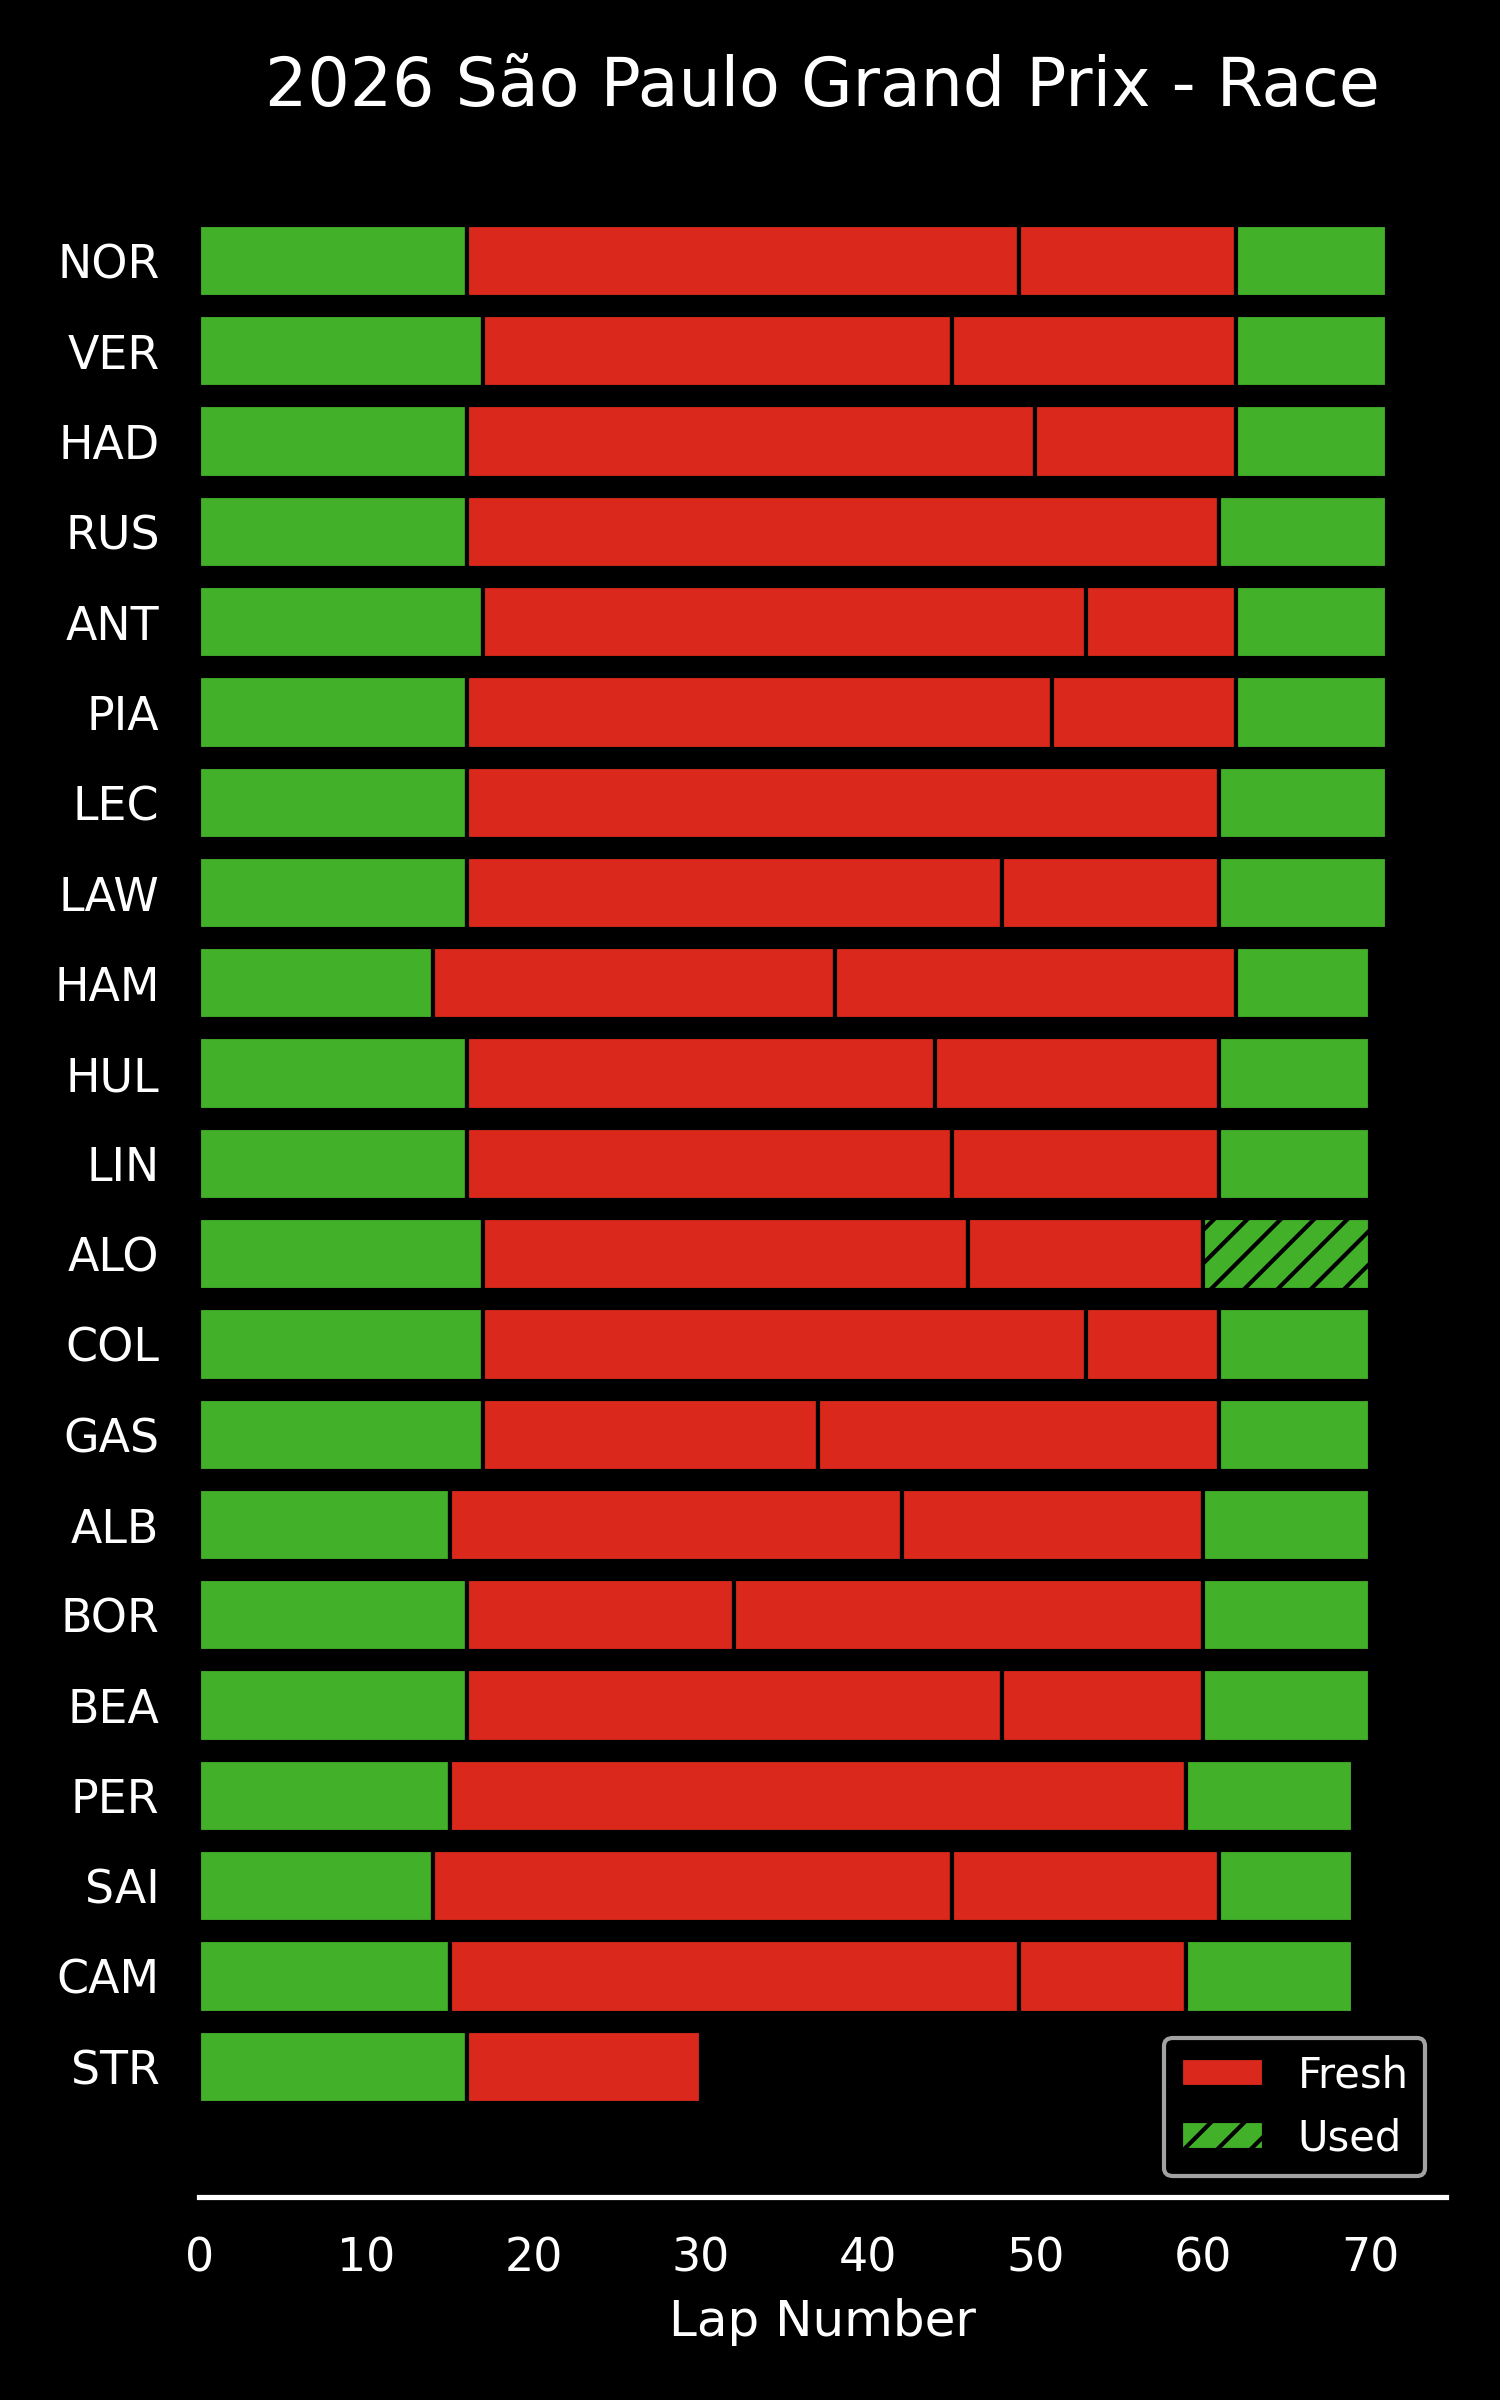
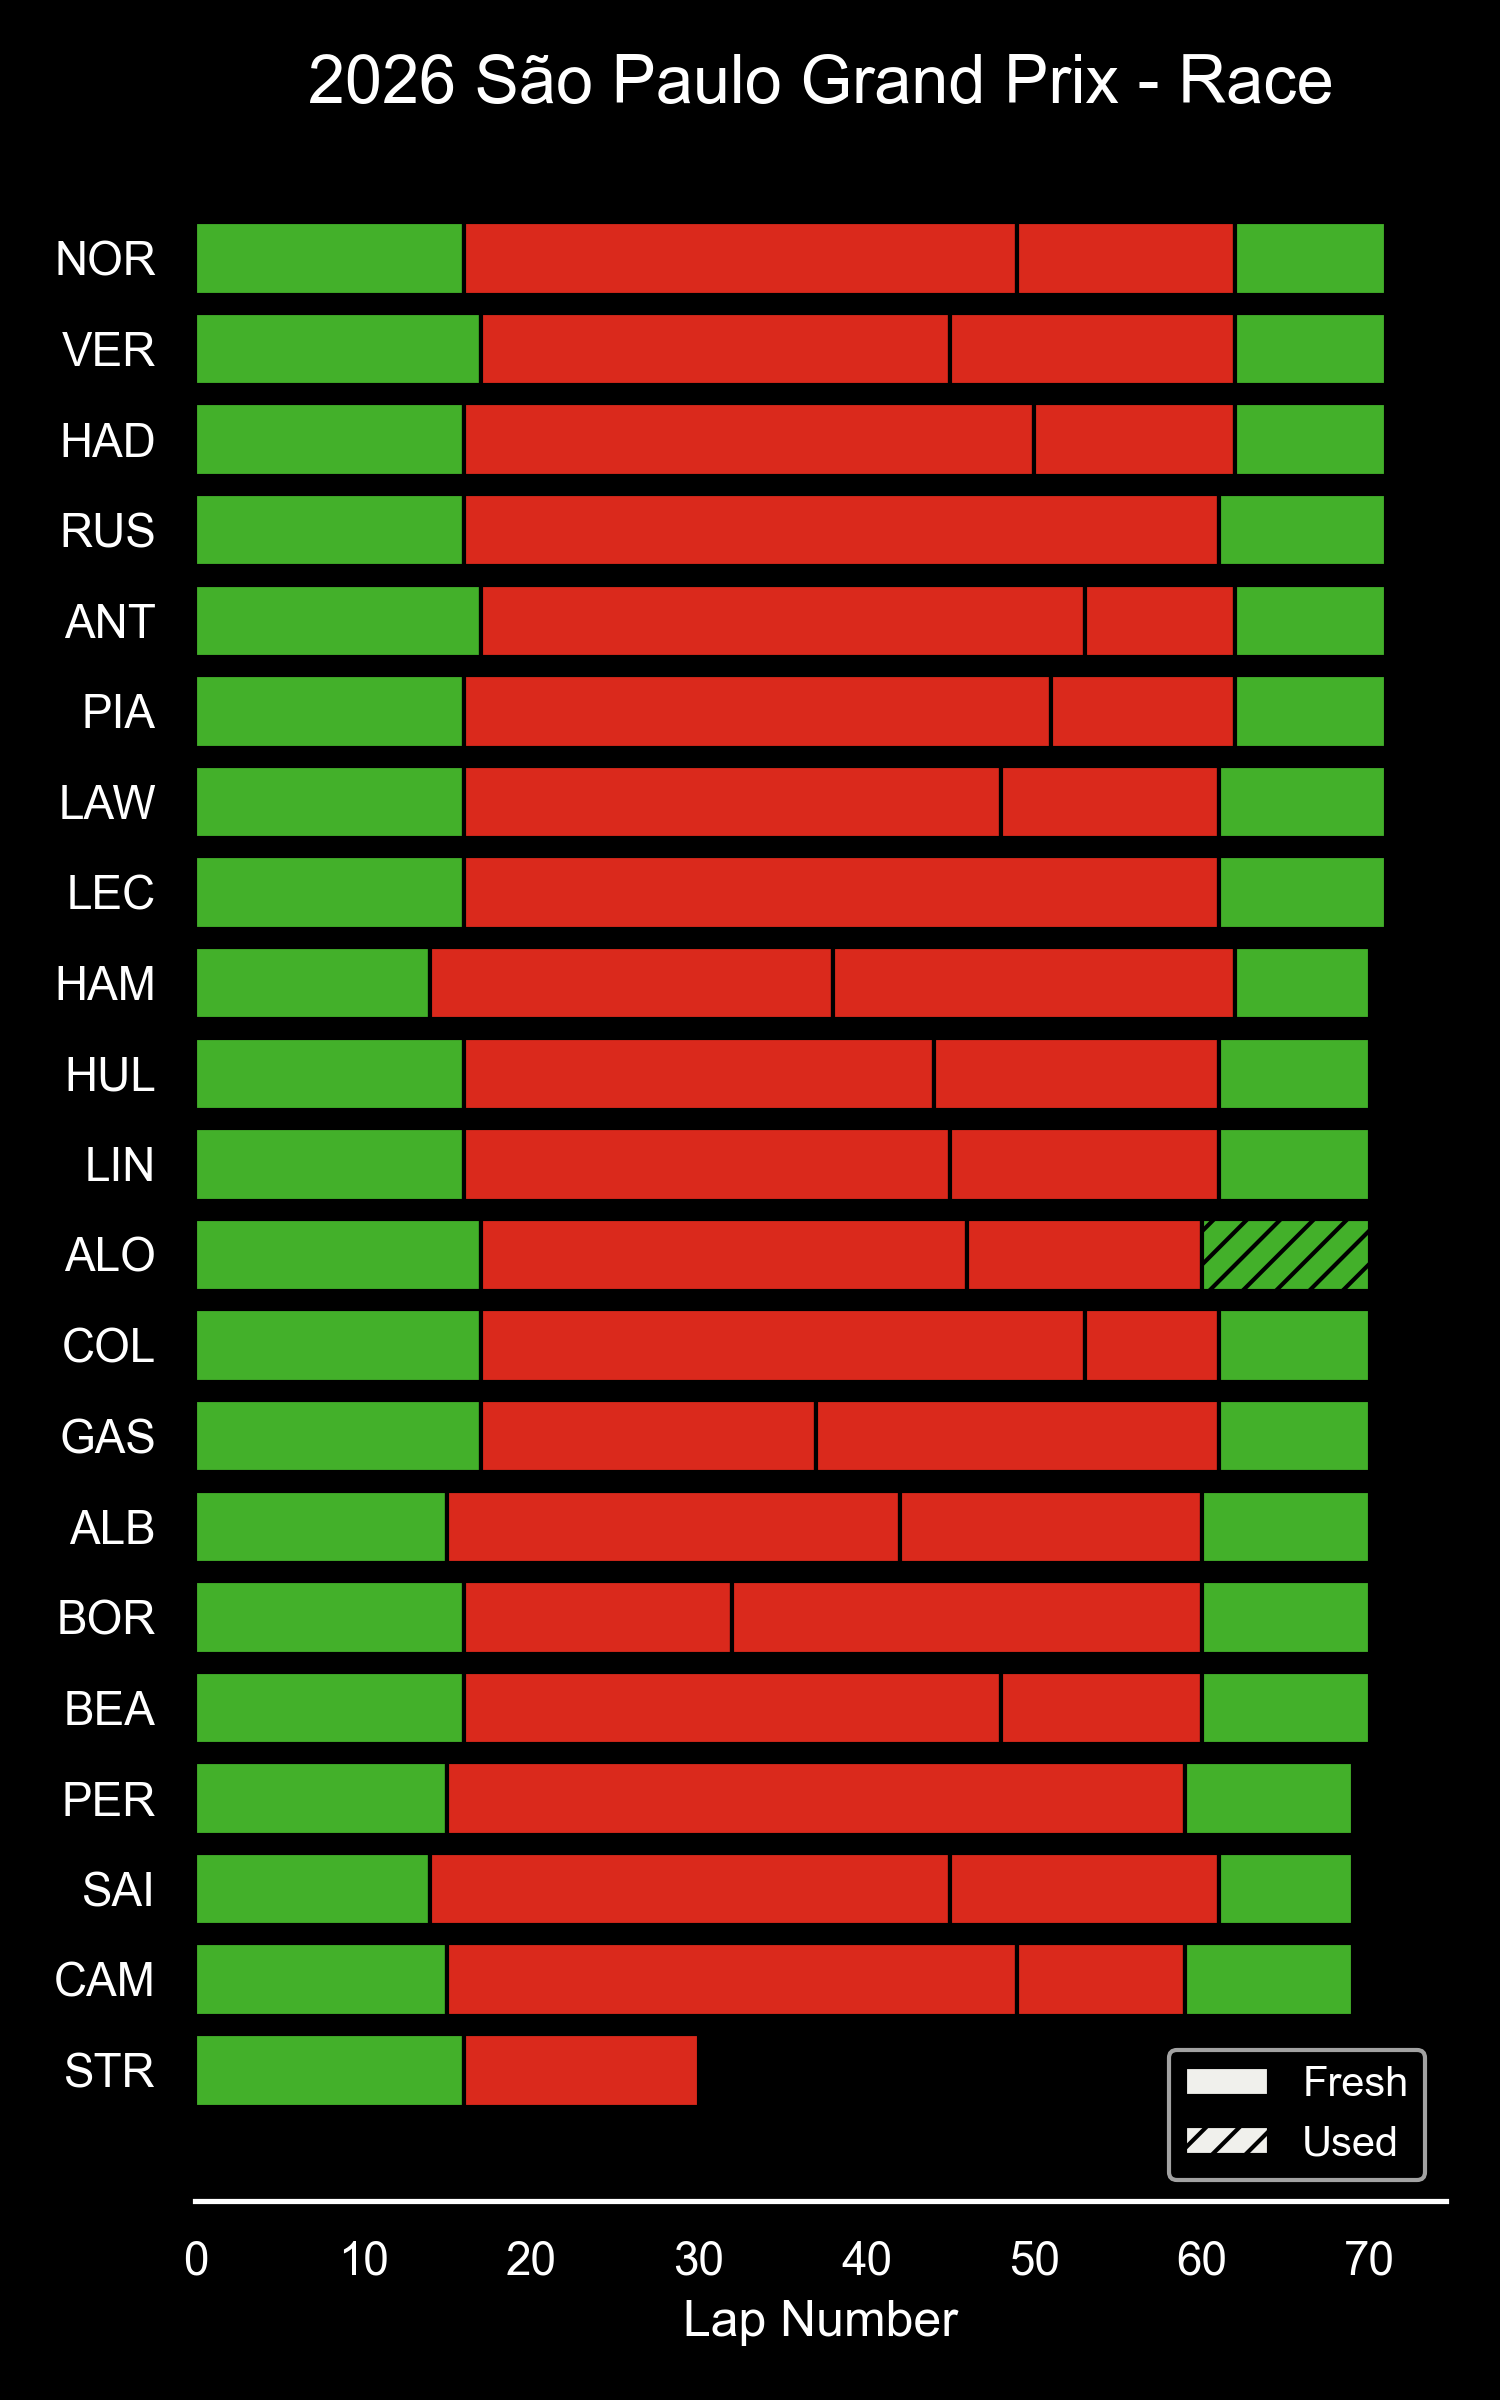
Make strategy plot tyre freshenss legend uniform

diff --git a/f1_visualization/visualization.py b/f1_visualization/visualization.py
@@ -1220,6 +1220,15 @@ def strategy_barplot(
     _shade_sc_periods(*find_sc_laps(included_laps))
     _deduplicate_legend_labels(ax, loc="lower right", fontsize=10)
 
+    # The Fresh/Used legend handles are copied from whichever stint first used each label
+    # so they inherit that stint's compound color
+    # Recolor them uniformly to clarify that the hatch pattern is the distinguishing feature
+    legend = ax.get_legend()
+    if legend is not None:
+        for handle, text in zip(legend.legend_handles, legend.get_texts(), strict=True):
+            if text.get_text() in {"Fresh", "Used"}:
+                handle.set_facecolor(VISUAL_CONFIG["relative"]["palette"]["HARD"])
+
     plt.title(f"{season} {event_name}", fontsize=16)
     plt.xlabel("Lap Number")
     plt.grid(False)
